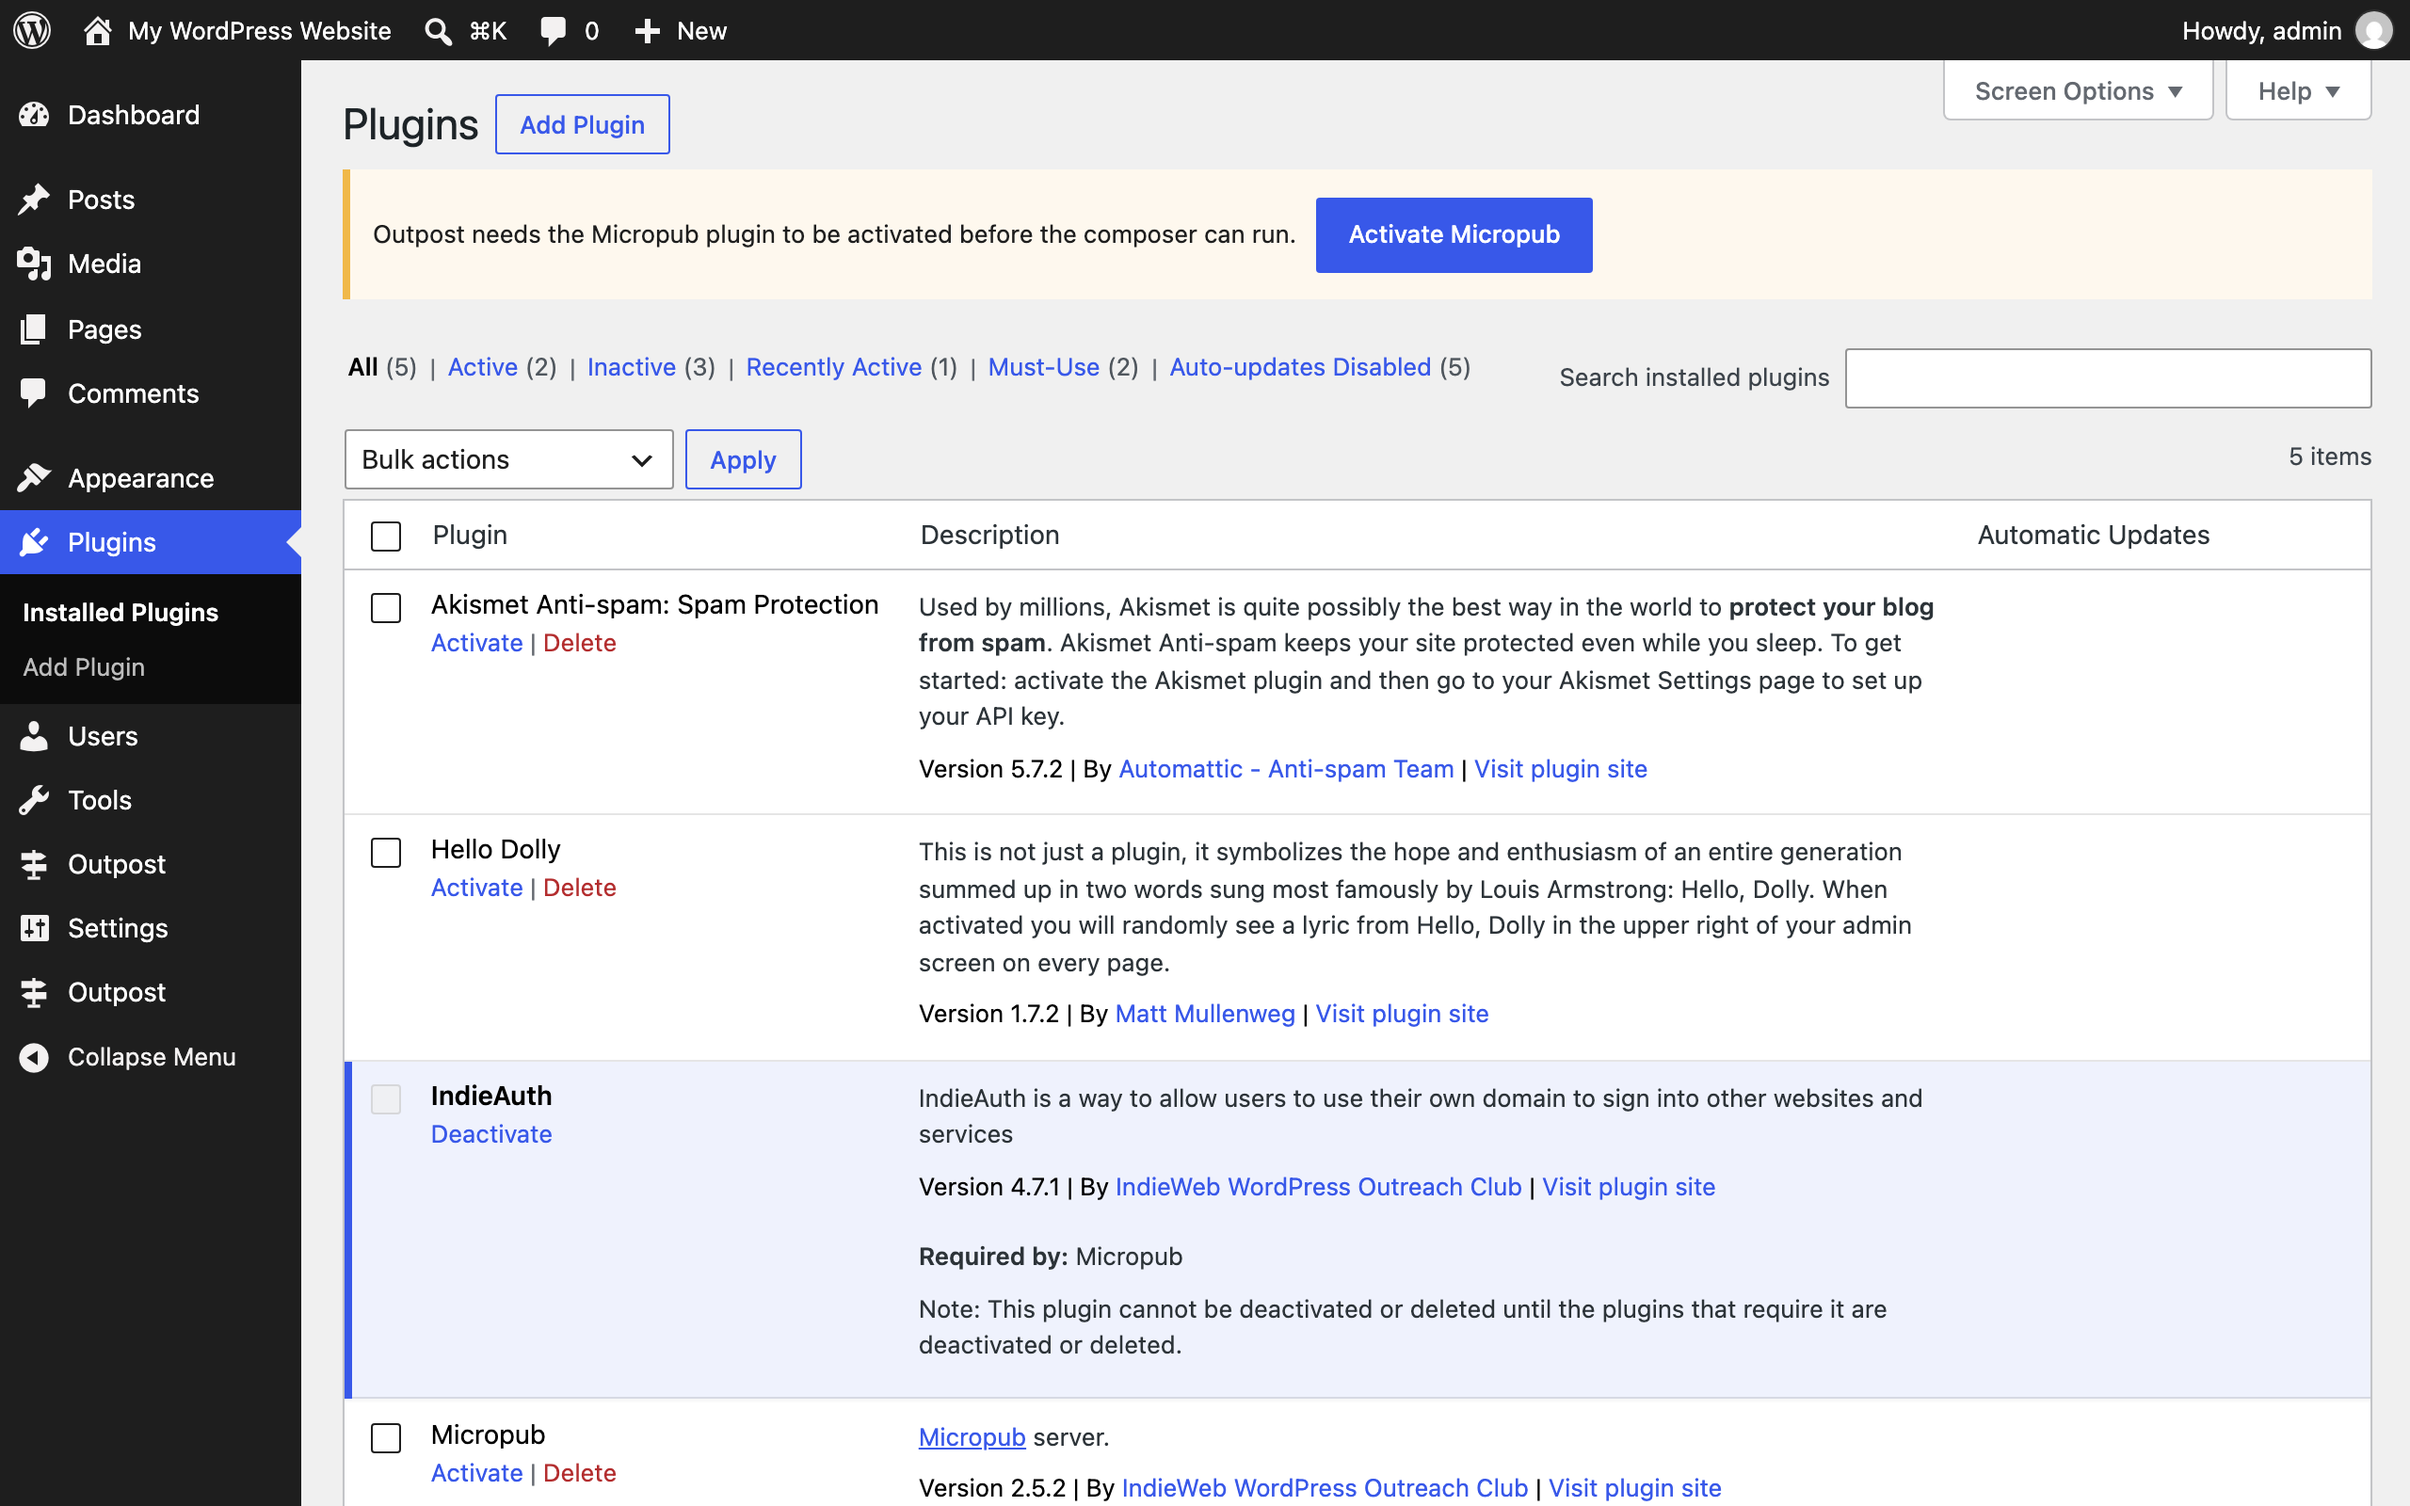
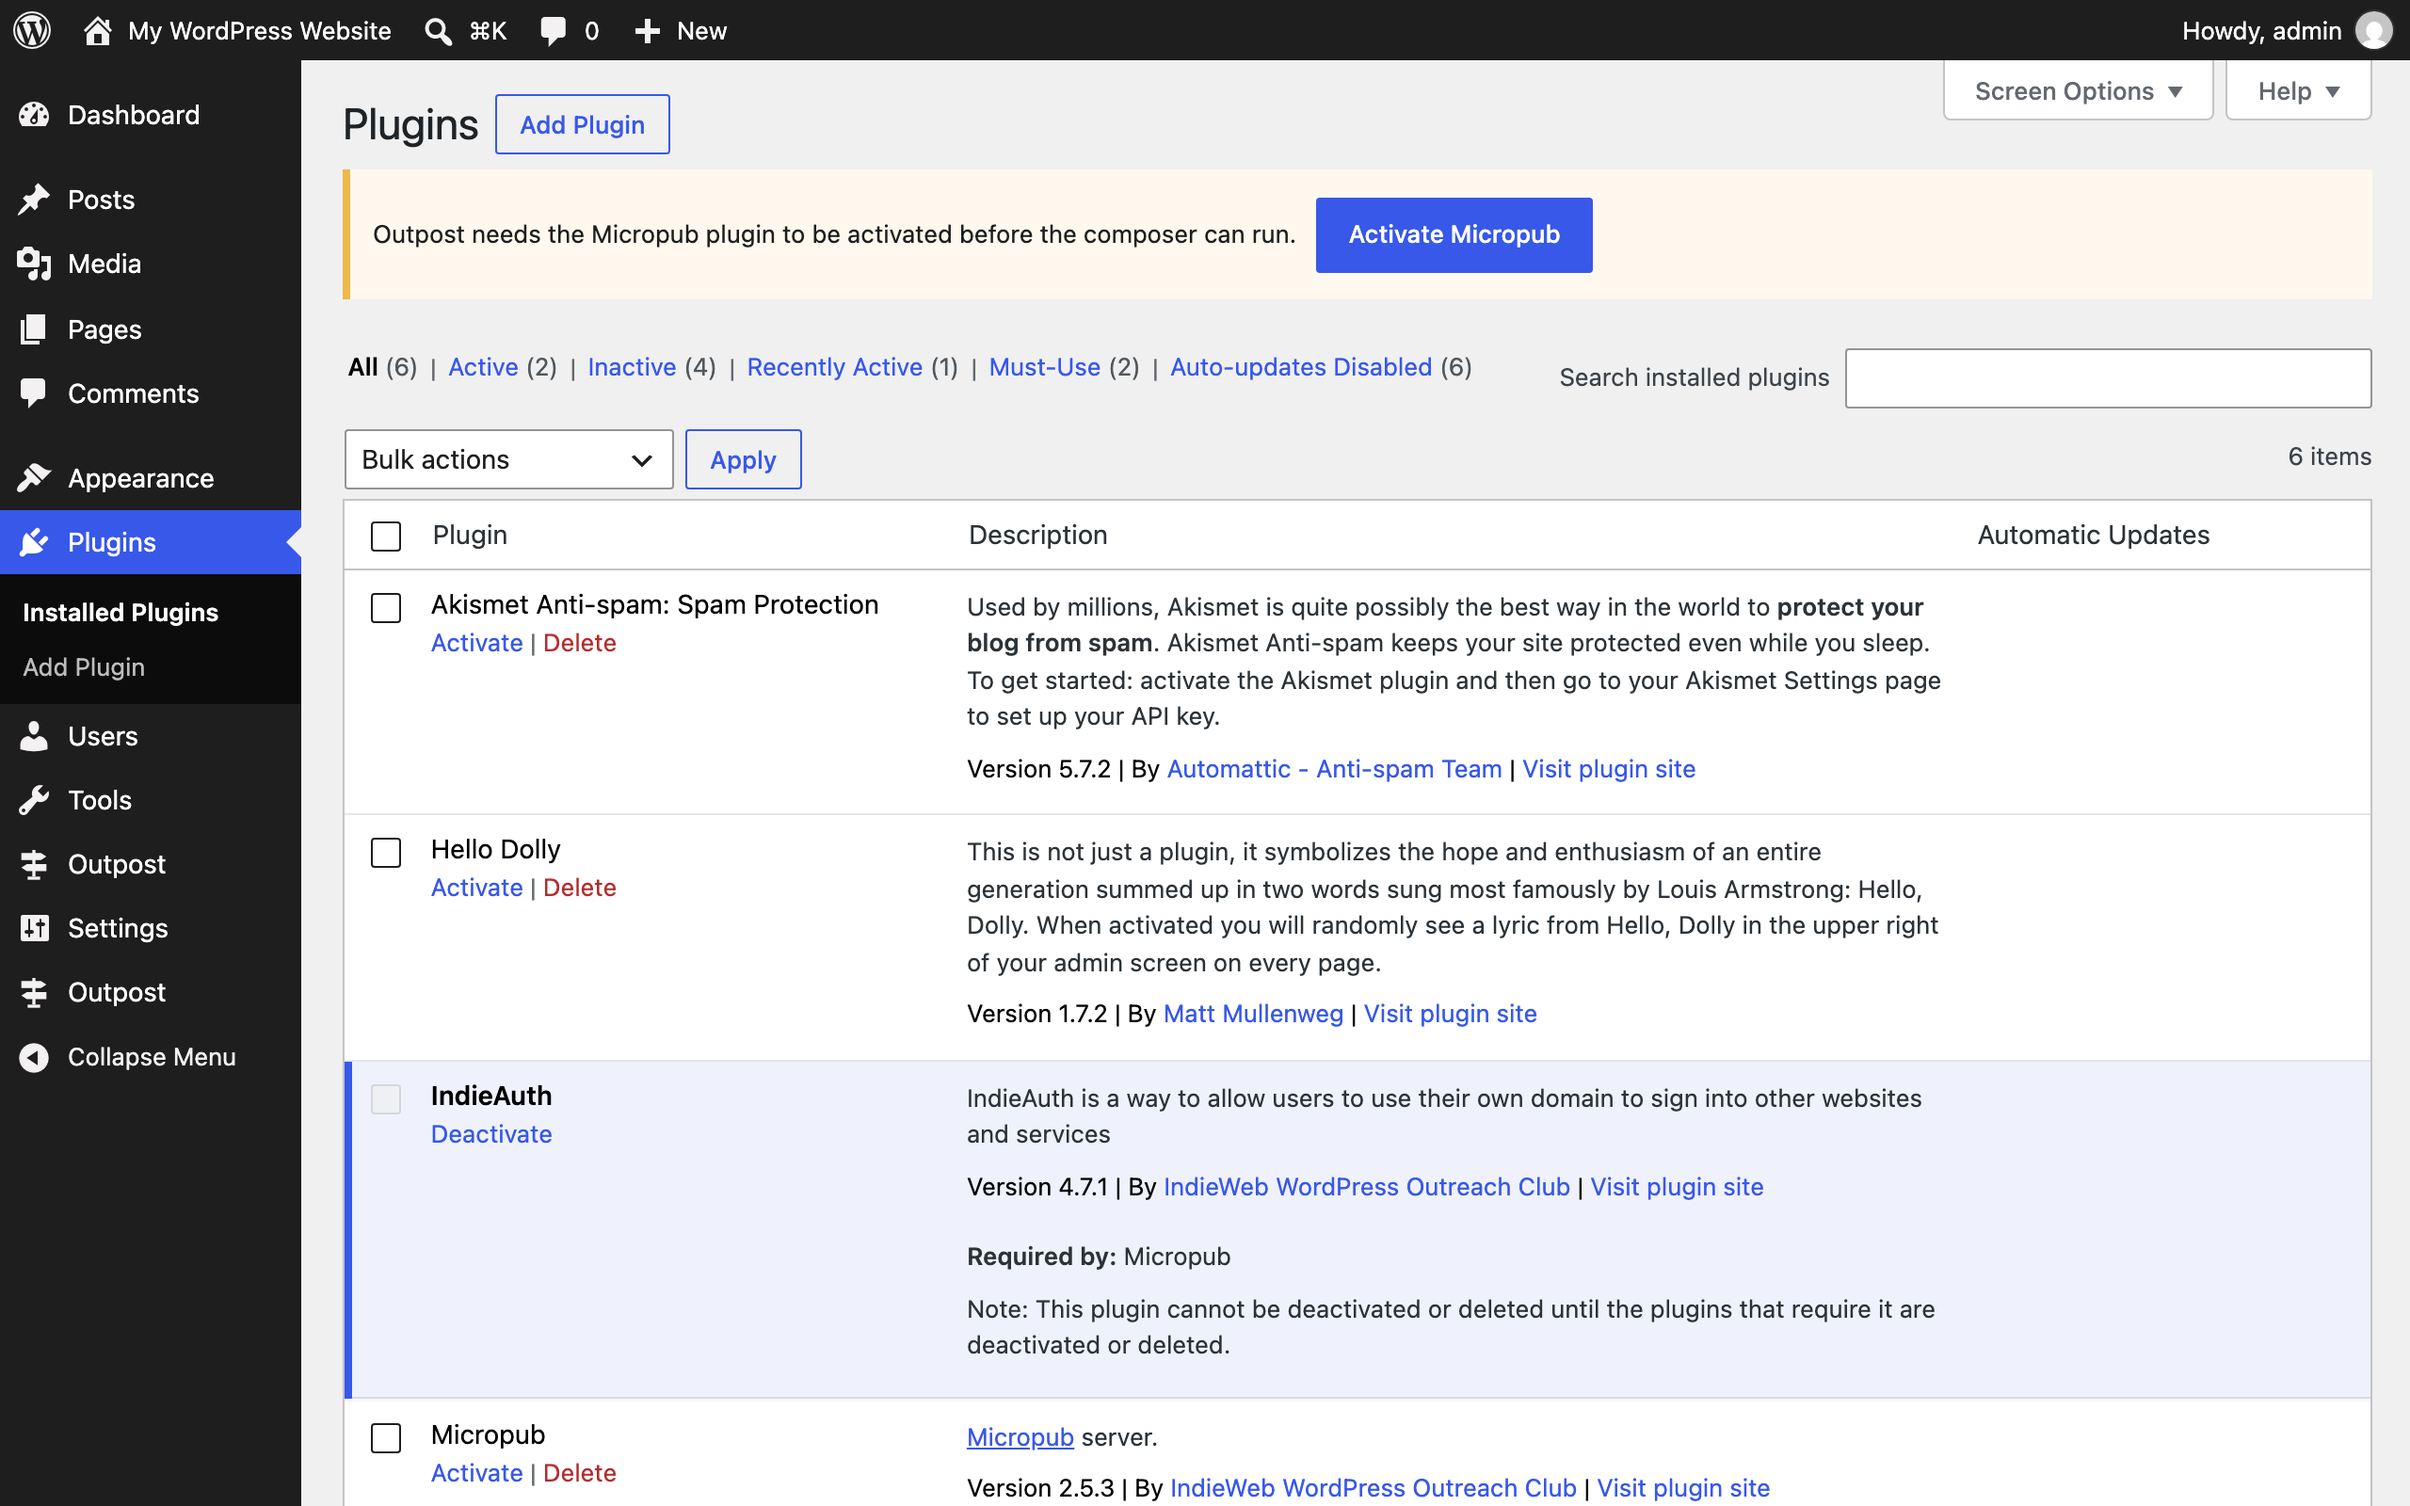
📖 DOC: refresh version references and screenshots for 1.0.3 on WP 7.1 (#176)
Version-of-record references bumped 1.0.0 -> 1.0.3 (README status line,
faq "is it on wp.org", privacy-and-data source-read version); the
historical "moved in 1.0.0" note is left as-is. README WP line corrected
from "7.0 development branch" to "tested up to 7.1".

Pinned the screenshot Playground blueprint to WP 7.1 / PHP 8.2 so docs
captures match the tested version and stay reproducible. Re-ran the
capture: 13 of 17 documented shots reproduced (10 byte-identical, so the
set was already current); 3 refreshed with today's seeded dates
(dependency-notice, syndication-column, reply-mode) and visually verified
on WP 7.1. The security fixes in 1.0.1-1.0.3 changed no UI, so no
composer/admin screens changed shape.

diff --git a/docs/src/content/docs/privacy-and-data.md b/docs/src/content/docs/privacy-and-data.md
@@ -3,7 +3,7 @@ title: Privacy and data
 description: "What Outpost stores on your site and device, which external services it contacts, and what it adds to your public pages — verified against the source."
 ---
 
-What Outpost stores on your site and your device, which external services it talks to, and what it adds to your public pages. Everything here comes from reading the plugin source at version 1.0.0 (plugin header); items we couldn't verify are called out.
+What Outpost stores on your site and your device, which external services it talks to, and what it adds to your public pages. Everything here comes from reading the plugin source at version 1.0.3 (plugin header); items we couldn't verify are called out.
 
 ## Data stored in your WordPress database
 

diff --git a/README.md b/README.md
@@ -6,9 +6,9 @@
 
 > *Post from your outpost. Reach your people everywhere.*
 
-Mobile-first Progressive Web App composer for IndieWeb POSSE workflows. Built for WordPress 6.5+ / 7.0 development branch.
+Mobile-first Progressive Web App composer for IndieWeb POSSE workflows. Requires WordPress 6.5+ and PHP 8.2+; tested up to WordPress 7.1.
 
-**Status:** version 1.0.0, prepared for release (2026-07-09 readiness audit: Plugin Check clean). Not yet listed on WordPress.org — install from GitHub.
+**Status:** version 1.0.3, prepared for release (Plugin Check 2.1.0 clean on WordPress 7.1). Not yet listed on WordPress.org — install from GitHub.
 
 ## User documentation
 

diff --git a/docs/src/content/docs/faq.md b/docs/src/content/docs/faq.md
@@ -7,7 +7,7 @@ Quick answers to the questions Outpost users ask most.
 
 ## Is Outpost on WordPress.org?
 
-Not that we can confirm — Outpost (version 1.0.0) is not yet confirmed to be listed there. Install it from GitHub per the [installation guide](/outpost/installation/). Its two required dependencies (IndieAuth and Micropub) are on WordPress.org.
+Not that we can confirm — Outpost (version 1.0.3) is not yet confirmed to be listed there. Install it from GitHub per the [installation guide](/outpost/installation/). Its two required dependencies (IndieAuth and Micropub) are on WordPress.org.
 
 ## Does Outpost require Jetpack?
 
